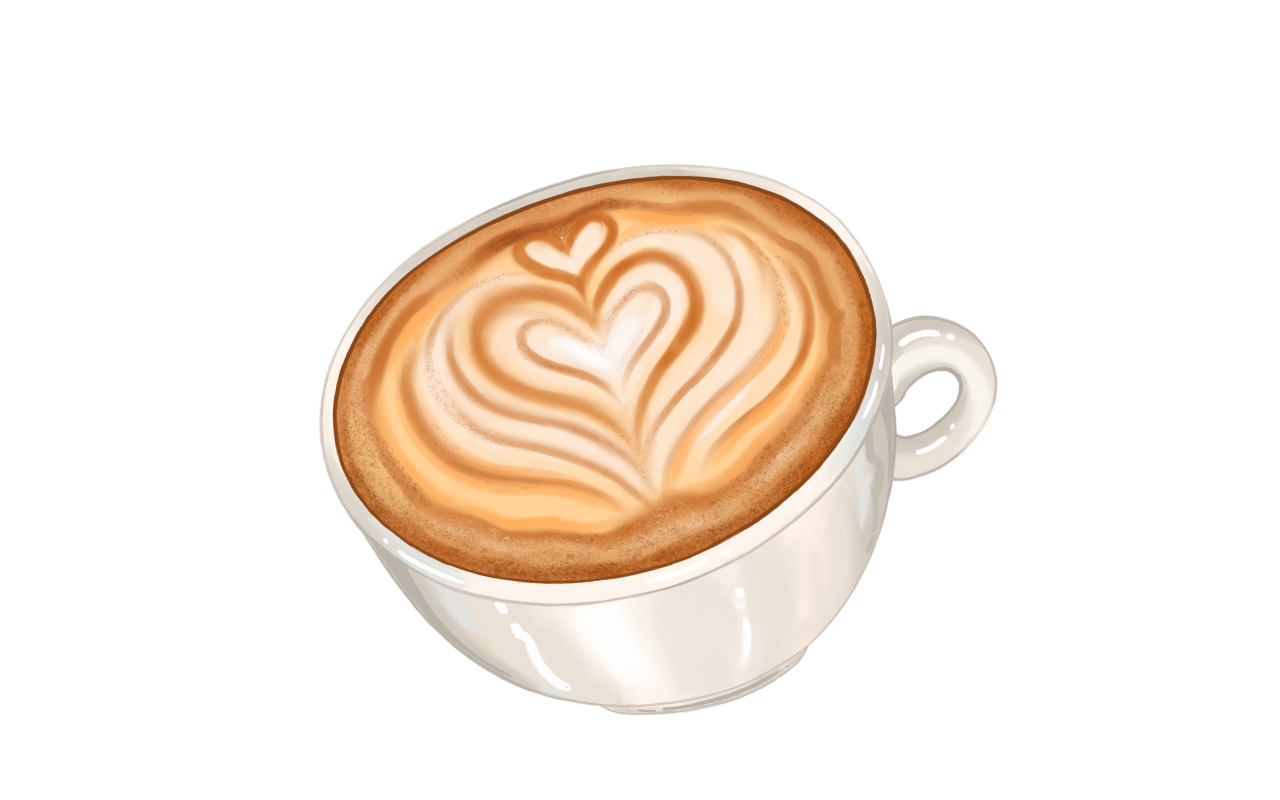
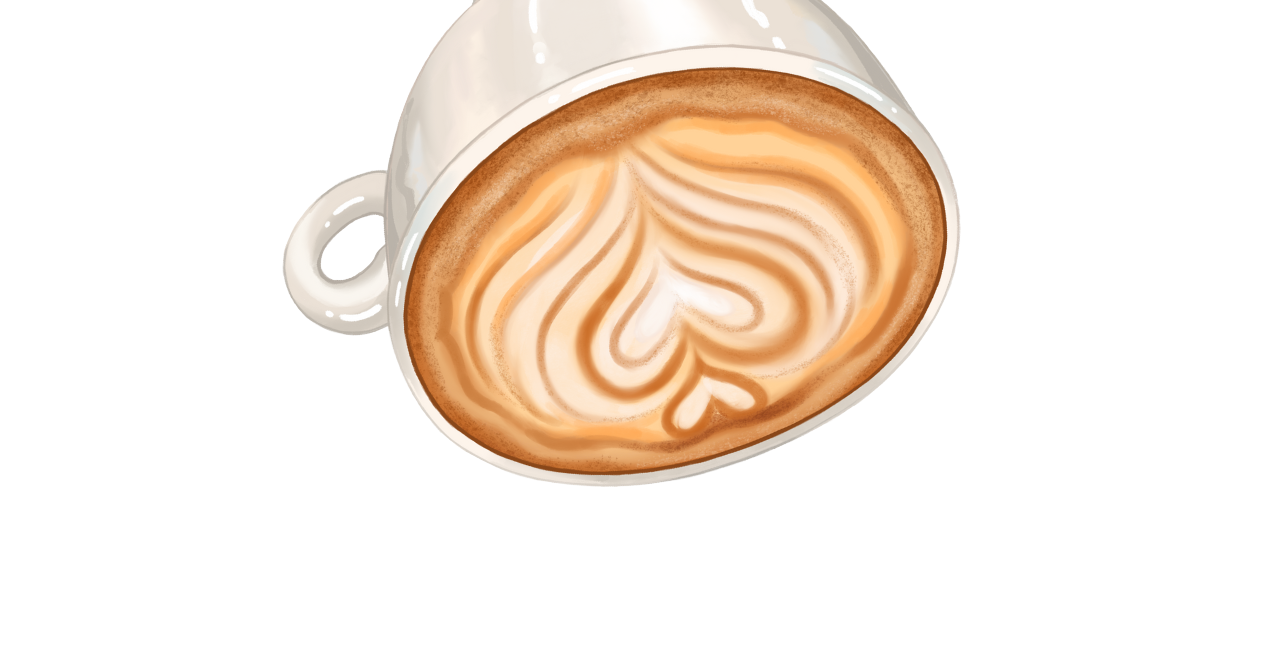
menu finish

Changed region(s): [[0.2188, 0.0, 0.7812, 0.8909]]

diff --git a/Menu.html b/Menu.html
@@ -15,8 +15,8 @@
             background-color: #344337;
             color: white;
             margin: 0;
-            padding: 0;
-            overflow-x: hidden; /* ป้องกันการเลื่อนในแนวนอน */
+            padding: 100;
+            overflow-x:hidden; /* ป้องกันการเลื่อนในแนวนอน */
         }
         .navbar {
             background-color: #344337;
@@ -73,6 +73,14 @@
             z-index: 1;
             object-fit: cover;
             z-index: -1;
+        }
+        .shadowtablecloth {
+            position: absolute;
+            top: 200px;
+            width: 80%;
+            height: 1550px;
+            left: 125px;
+            z-index: -2;
         }
         .tablecloth2 {
             position: absolute;
@@ -136,7 +144,7 @@
         <p>&nbsp;&nbsp;&nbsp;&nbsp;&nbsp;&nbsp;&nbsp;ข้าวต้มสูตรพิเศษของเรา ผสมผสานกับ</p>
         <p>ปลากระพงสดใหม่ ปรุงรสจากเชฟชื่อดังทำให้ </p>
         <p>ข้าวต้มปลากระพงอร่อยไม่ซ้ำไคร</p>
-        <img src="img/ข้าวต้มปลากระพง.PNG" alt="ข้าวต้มปลากระพง"  style="width: 250px; height: auto; margin-top: -150px; margin-left: 400px;">
+        <img src="img/ข้าวต้มปลากระพง2.png" alt="ข้าวต้มปลากระพง"  style="width: 400px; height: auto; margin-top: -150px; margin-left: 330px;">
     </section>
 
     <section style="display: flex; align-items: center; margin-top: -630px;">
@@ -159,8 +167,10 @@
     <section style="display: flex; align-items: center; margin-top: 50px; margin-left: 1100px;">
        <div class="text-content" style="flex: 1; padding-right: 10px;">
            <h2 style="color: #FF914D;">ข้าวหมกเนื้อ 69-</h2>
-        <p>&nbsp;&nbsp;&nbsp;&nbsp;&nbsp;&nbsp;&nbsp;ข้าวหมกเนื้อ สูตรอาหรับ ข้าวเม็ดยาว นุ่ม เนื้อวัวชั้นดีหมกนาน 4 ชั่วโมง ทำให้เนื้อมีความหอม นุ่มเป็นพิเศษ</p>
-        <img src="img/ข้าวหมกเนื้อ2.png" alt="ข้าวหมกเนื้อ" style="width: 530px; height: auto; margin-left: -430px; margin-top: -160px;">
+        <p>&nbsp;&nbsp;&nbsp;&nbsp;&nbsp;&nbsp;&nbsp;ข้าวหมกเนื้อ สูตรอาหรับ ข้าวเม็ดยาว นุ่ม </p>
+        <p>เนื้อวัวชั้นดีหมกนาน 4 ชั่วโมง ทำให้เนื้อมีความหอม</p>
+        <p> นุ่มเป็นพิเศษ</p>
+        <img src="img/ข้าวหมกเนื้อ2.png" alt="ข้าวหมกเนื้อ" style="width: 530px; height: auto; margin-left: -430px; margin-top: -230px;">
     </section>
 
     <section style="display: flex; align-items: center; margin-top: -50px;">
@@ -212,7 +222,7 @@
         <img src="img/ลายน้ำ 2.png" alt="ลายน้ำ2"  style="width: 700px;">
     </section>
 
-    <section style="display: flex; margin-top: -30px; margin-left: 750px;">
+    <section style="display: flex; margin-top: -0px; margin-left: 750px;">
         <img src="img/ซอสไข่กระทะ.png" alt="ซอสไข่กระทะ"  style="width: 150px;">
     </section>
 
@@ -228,7 +238,7 @@
         <img src="img/ตะเกียบ.png" alt="ตะเกียบ"  style="width: 350px;">
     </section>
 
-    <section style="display: flex; margin-top: -50px; margin-left: 850px;">
+    <section style="display: flex; margin-top: -90px; margin-left: 850px;">
         <img src="img/น้ำจิ้มขนมจีบ.png" alt="น้ำจิ้มขนมจีบ"  style="width: 100px;">
     </section>
     
@@ -236,40 +246,120 @@
         <img src="img/กาแฟ.png" alt="กาแฟ"  style="width: 250px;">
     </section>
 
-    <section style="display: flex; margin-top: 100px; margin-left: 1010px;">
-        <img src="img/กาแห2ขวา.png" alt="กาแห2ขวา"  style="width: 700px;">
+    <section style="display: flex; margin-top: 00px; margin-left: 1000px;">
+        <img src="img/coffee.png" alt="กาแห2ขวา"  style="width: 700px;">
     </section>
 
-    <section style="display: flex; margin-top: -1050px; margin-left: -400px;">
-        <img src="img/ขิง1ขวา.png" alt="ขิง1ขวา"  style="width: 100px;">
+    <section style="display: flex; margin-top: -1270px; margin-left: 1200px;">
+        <img src="img/ขิง1ขวา.png" alt="ขิง1ขวา"  style="width: 600px;">
     </section>
 
-    <section style="display: flex; margin-top: -1050px; margin-left: -400px;">
-        <img src="img/ผัก1ขวา.png" alt="ผัก1ขวา"  style="width: 100px;">
+    <section style="display: flex; margin-top: -910px; margin-left: 1100px;">
+        <img src="img/ผัก1ขวา.png" alt="ผัก1ขวา"  style="width: 850px;">
     </section>
     
-    <section style="display: flex; margin-top: -1050px; margin-left: -400px;">
-        <img src="img/ผัก1ซ้าย.png" alt="ผัก1ซ้าย"  style="width: 100px;">
+    <section style="display: flex; margin-top: -520px; margin-left: -440px;">
+        <img src="img/ผัก1ซ้าย.png" alt="ผัก1ซ้าย"  style="width: 800px;">
     </section>
 
-    <section style="display: flex; margin-top: -1050px; margin-left: -400px;">
-        <img src="img/พริกหยวก1ซ้าย.png" alt="พริกหยวก1ซ้าย"  style="width: 100px;">
+    <section style="display: flex; margin-top: 60px; margin-left: -260px;">
+        <img src="img/พริกหยวก1ซ้าย.png" alt="พริกหยวก1ซ้าย"  style="width: 600px;">
     </section>
 
-    <section style="display: flex; margin-top: -1050px; margin-left: -400px;">
-        <img src="img/พริกแดง.png" alt="พริกแดง"  style="width: 100px;">
+    <section style="display: flex; margin-top: -430px; margin-left: 380px;">
+        <img src="img/พริกแดง.png" alt="พริกแดง"  style="width: 200px;">
     </section>
 
-    <section style="display: flex; margin-top: -1050px; margin-left: -400px;">
-        <img src="img/หอมแดง.png" alt=หอมแดง""  style="width: 100px;">
+    <section style="display: flex; margin-top: -200px; margin-left: 930px;">
+        <img src="img/หอมแดง.png" alt=หอมแดง""  style="width: 150px;">
     </section>
 
-    <section style="display: flex; margin-top: -1050px; margin-left: -400px;">
-        <img src="img/เงา.png" alt="เงากลม"  style="width: 100px;">
+    <section style="display: flex; margin-top: 650px; margin-left: -250px;">
+        <img src="img/ขนมจีบ2ซ้าย.png" alt="ขนมจีบ2ซ้าย"  style="width: 500px;">
     </section>
+
+    <section style="display: flex; margin-top: -560px; margin-left: 1150px;">
+        <img src="img/ขนมจีบ2ขวา.png" alt="ขนมจีบ2ขวา"  style="width: 600px;">
+    </section>
+
+    <section style="display: flex; margin-top: 150px; margin-left: -200px;">
+        <img src="img/ปาท่องโก๋2ซ้าย.png" alt="ปาท่องโก๋2ซ้าย"  style="width: 700px;">
+    </section>
+
+    <section style="display: flex; margin-top: -1600px; margin-left: 230px; ">
+        <img src="img/เงา.png" alt="เงาข้าวมันไก่"  style="width: 700px; z-index: -1;" >
+    </section>
+
+    <section style="display: flex; margin-top: -450px; margin-left: 730px;">
+        <img src="img/เงา.png" alt="เงาไข่กระทะ"  style="width: 500px; z-index: -1;">
+    </section>
+
+    <section style="display: flex; margin-top: -50px; margin-left: 935px;">
+        <img src="img/เงา.png" alt="เงาหอมแดง"  style="width: 140px; z-index: -1; opacity: 0.75">
+    </section>
+
+    <section style="display: flex; margin-top: -10px; margin-left: 400px;">
+        <img src="img/เงา.png" alt="เงาพริกแดง"  style="width: 170px; z-index: -1; opacity: 0.8">
+    </section>
+
+    <section style="display: flex; margin-top: -365px; margin-left: 730px;">
+        <img src="img/เงา.png" alt="เงาซอสไข่กระทะ"  style="width: 190px; z-index: -1;">
+    </section>
+
+    <section style="display: flex; margin-top: -100px; margin-left: 500px;">
+        <img src="img/เงา.png" alt="เงาข้าวต้มกุ้ง"  style="width: 650px; z-index: -1;">
+    </section>
+
+    <section style="display: flex; margin-top: -150px; margin-left: 300px;">
+        <img src="img/เงา.png" alt="เงาข้าวต้มปลากระพง"  style="width: 640px; z-index: -1;">
+    </section>
+
+    <section style="display: flex; margin-top: -450px; margin-left: 500px;">
+        <img src="img/เงา.png" alt="เงาข้าวหมกเนื้อ"  style="width: 850px; z-index: -1;">
+    </section>
+
+    <section style="display: flex; margin-top: -220px; margin-left: 280px;">
+        <img src="img/เงา.png" alt="เงาขนมปังเนยนม"  style="width: 650px; z-index: -1;">
+    </section>
+
+    <section style="display: flex; margin-top: -340px; margin-left: 580px;">
+        <img src="img/เงา.png" alt="เงาซาลาเปา"  style="width: 650px; z-index: -1;">
+    </section>
+
+    <section style="display: flex; margin-top: -300px; margin-left: 330px;">
+        <img src="img/เงา.png" alt="เงาขนมจีบกุ้ง"  style="width: 750px; z-index: -1;">
+    </section>
+
+    <section style="display: flex; margin-top: -295px; margin-left: 805px;">
+        <img src="img/เงา.png" alt="เงาซอสขนมจีบ"  style="width: 180px; z-index: -1;">
+    </section>
+
+    <section style="display: flex; margin-top: -55px; margin-left: 370px;">
+        <img src="img/เงา.png" alt="เงากาแฟ"  style="width: 300px; z-index: -1;">
+    </section>
+
+    <section style="display: flex; margin-top: -150px; margin-left: 250px;">
+        <img src="img/เงา.png" alt="เงาปาท่องโก๋"  style="width: 700px; z-index: -1;">
+    </section>
+
+    <section style="display: flex; margin-top: -275px; margin-left: 688px;">
+        <img src="img/เงา.png" alt="เงาซอสปาท่องโก๋เขียว"  style="width: 130px; z-index: -1;">
+    </section>
+
+    <section style="display: flex; margin-top: -30px; margin-left: 705px;">
+        <img src="img/เงา.png" alt="เงาซอสปาท่องโก๋ขาว"  style="width: 130px; z-index: -1;">
+    </section>
+
+    <section style="display: flex; margin-top: -350px; margin-left: 580px;">
+        <img src="img/เงา.png" alt="เงาขนมปังสังขยา"  style="width: 700px; z-index: -1;">
+    </section>
+    <div>
+        <img src="img/table shadow.png" class="shadowtablecloth" alt="tablecloth">
+     </div>
 
 
     <div class="footer">
+        <br>
         <h1>อร่อยถูกใจ คนไทยบินได้ !!</h1>
     </div>
 </body>
